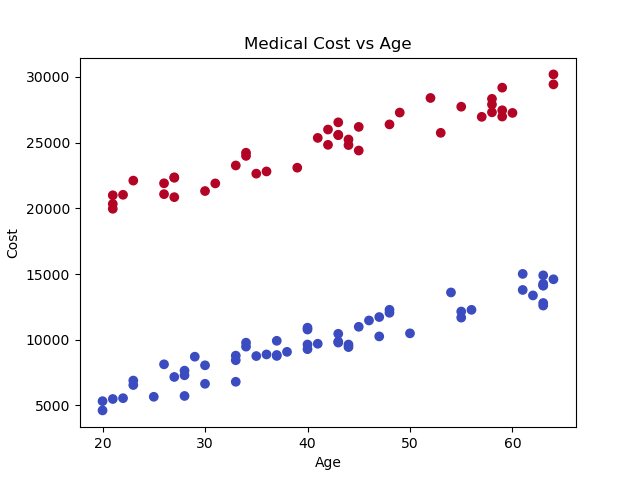
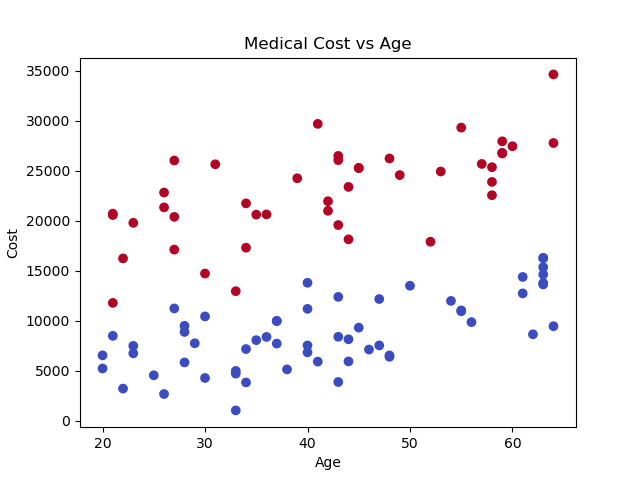
Warm up tweaks

diff --git a/assignments_02/warmup_02.py b/assignments_02/warmup_02.py
@@ -44,10 +44,12 @@ print(f"Points in cluster:\n {np.bincount(labels)}")
 
 fig, ax = plt.subplots()
 ax.scatter(X_clusters[:,0],X_clusters[:,1],c=labels)
+ax.scatter(kmeans.cluster_centers_[:,0],kmeans.cluster_centers_[:,1],color="black",marker="X",s=200)
 plt.xlabel("Cluster X")
 plt.ylabel("Cluster Y")
 plt.title("Clusters Demo")
 plt.savefig("outputs/kmeans_clusters.png")
+
 plt.show()
 
 # Linear Regression
@@ -56,7 +58,7 @@ np.random.seed(42)
 num_patients = 100
 age = np.random.randint(20,65,num_patients).astype(float)
 smoker = np.random.randint(0,2,num_patients).astype(float)
-cost = 200 * age + 15000 * smoker + np.random.randint(0,3000,num_patients)
+cost = 200 * age + 15000 * smoker + np.random.normal(0,3000,num_patients)
 
 # Linear Regression Q1
 plt.scatter(age,cost,c=smoker,cmap="coolwarm")
@@ -80,7 +82,7 @@ print(f"\nLinear Regression 02:\n")
 print(f"X Train:\n {X_train}")
 print(f"X Test:\n {X_test}")
 print(f"Y Train:\n {y_train}")
-print(f"Y test:\n {y_train}")
+print(f"Y test:\n {y_test}")
 
 # Linear Regression 03
 model.fit(X_train, y_train)
@@ -108,17 +110,19 @@ y_pred2 = model_full.predict(X_test2)
 print(f"\nLinear Regression 04:\n")
 print("age coefficient:", model_full.coef_[0])
 print("smoker coefficient: ", model_full.coef_[1])
-print(f"R2:",model_full.score(X_test2, y_test2))
+print(f"R2:{model_full.score(X_test2, y_test2)}\n")
 
-#Added the smoker flag helps R2 significantly
-#Smoker coefficient represents the total cost of healthcare for all 100 patients
-
+# How does the smoker feature influence the predicted medical cost?
+# Adding the smoker flag helps R2 significantly by going from 0.07 to 0.77
+# The smoker coefficient represents the predicted cost of healthcare for all 100 patients
 
 # Linear Regression 05
 plt.scatter(y_pred2,y_test2,color="orange",cmap="coolwarm")
-plt.plot( [0,30000],[0,30000], color="black")
+plt.plot( [0,25000],[0,25000], color="black")
 plt.xlabel("Predicted")
 plt.ylabel("Actual")
 plt.title("Predicted vs Actual")
 plt.savefig("outputs/predicted_vs_actual.png")
 plt.show()
+
+#Above the line is positive correlation and below the line is negative correlation.
